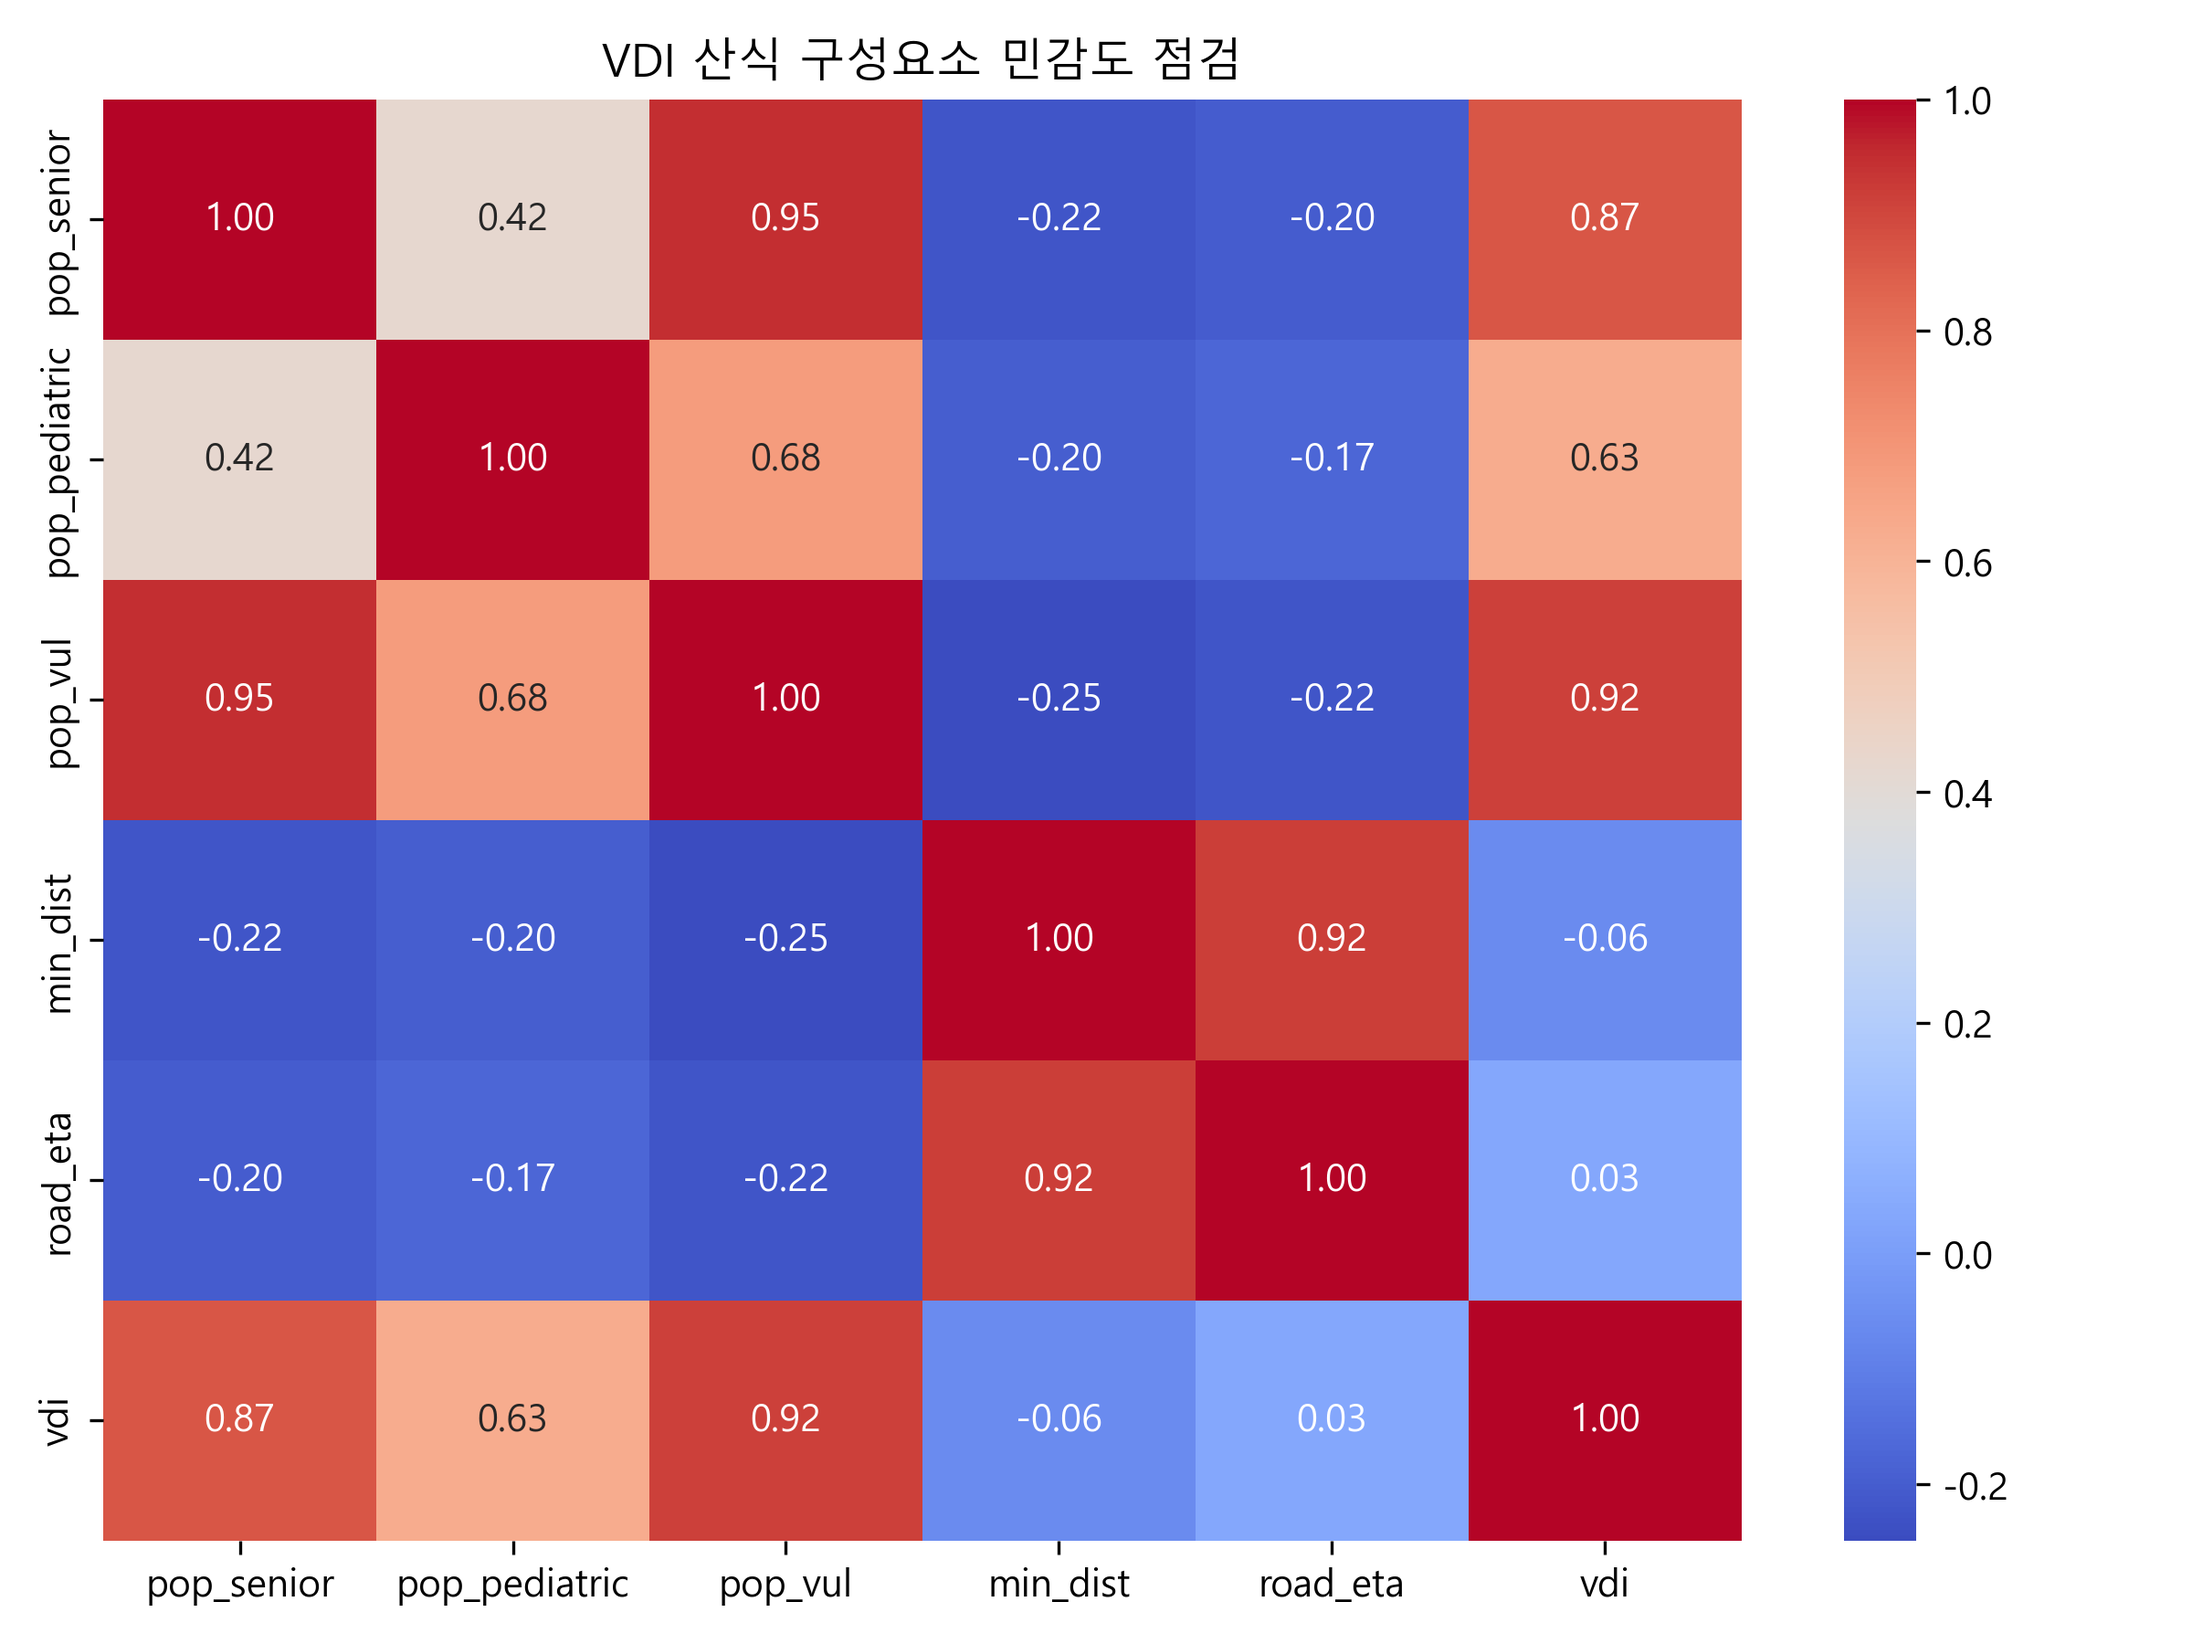
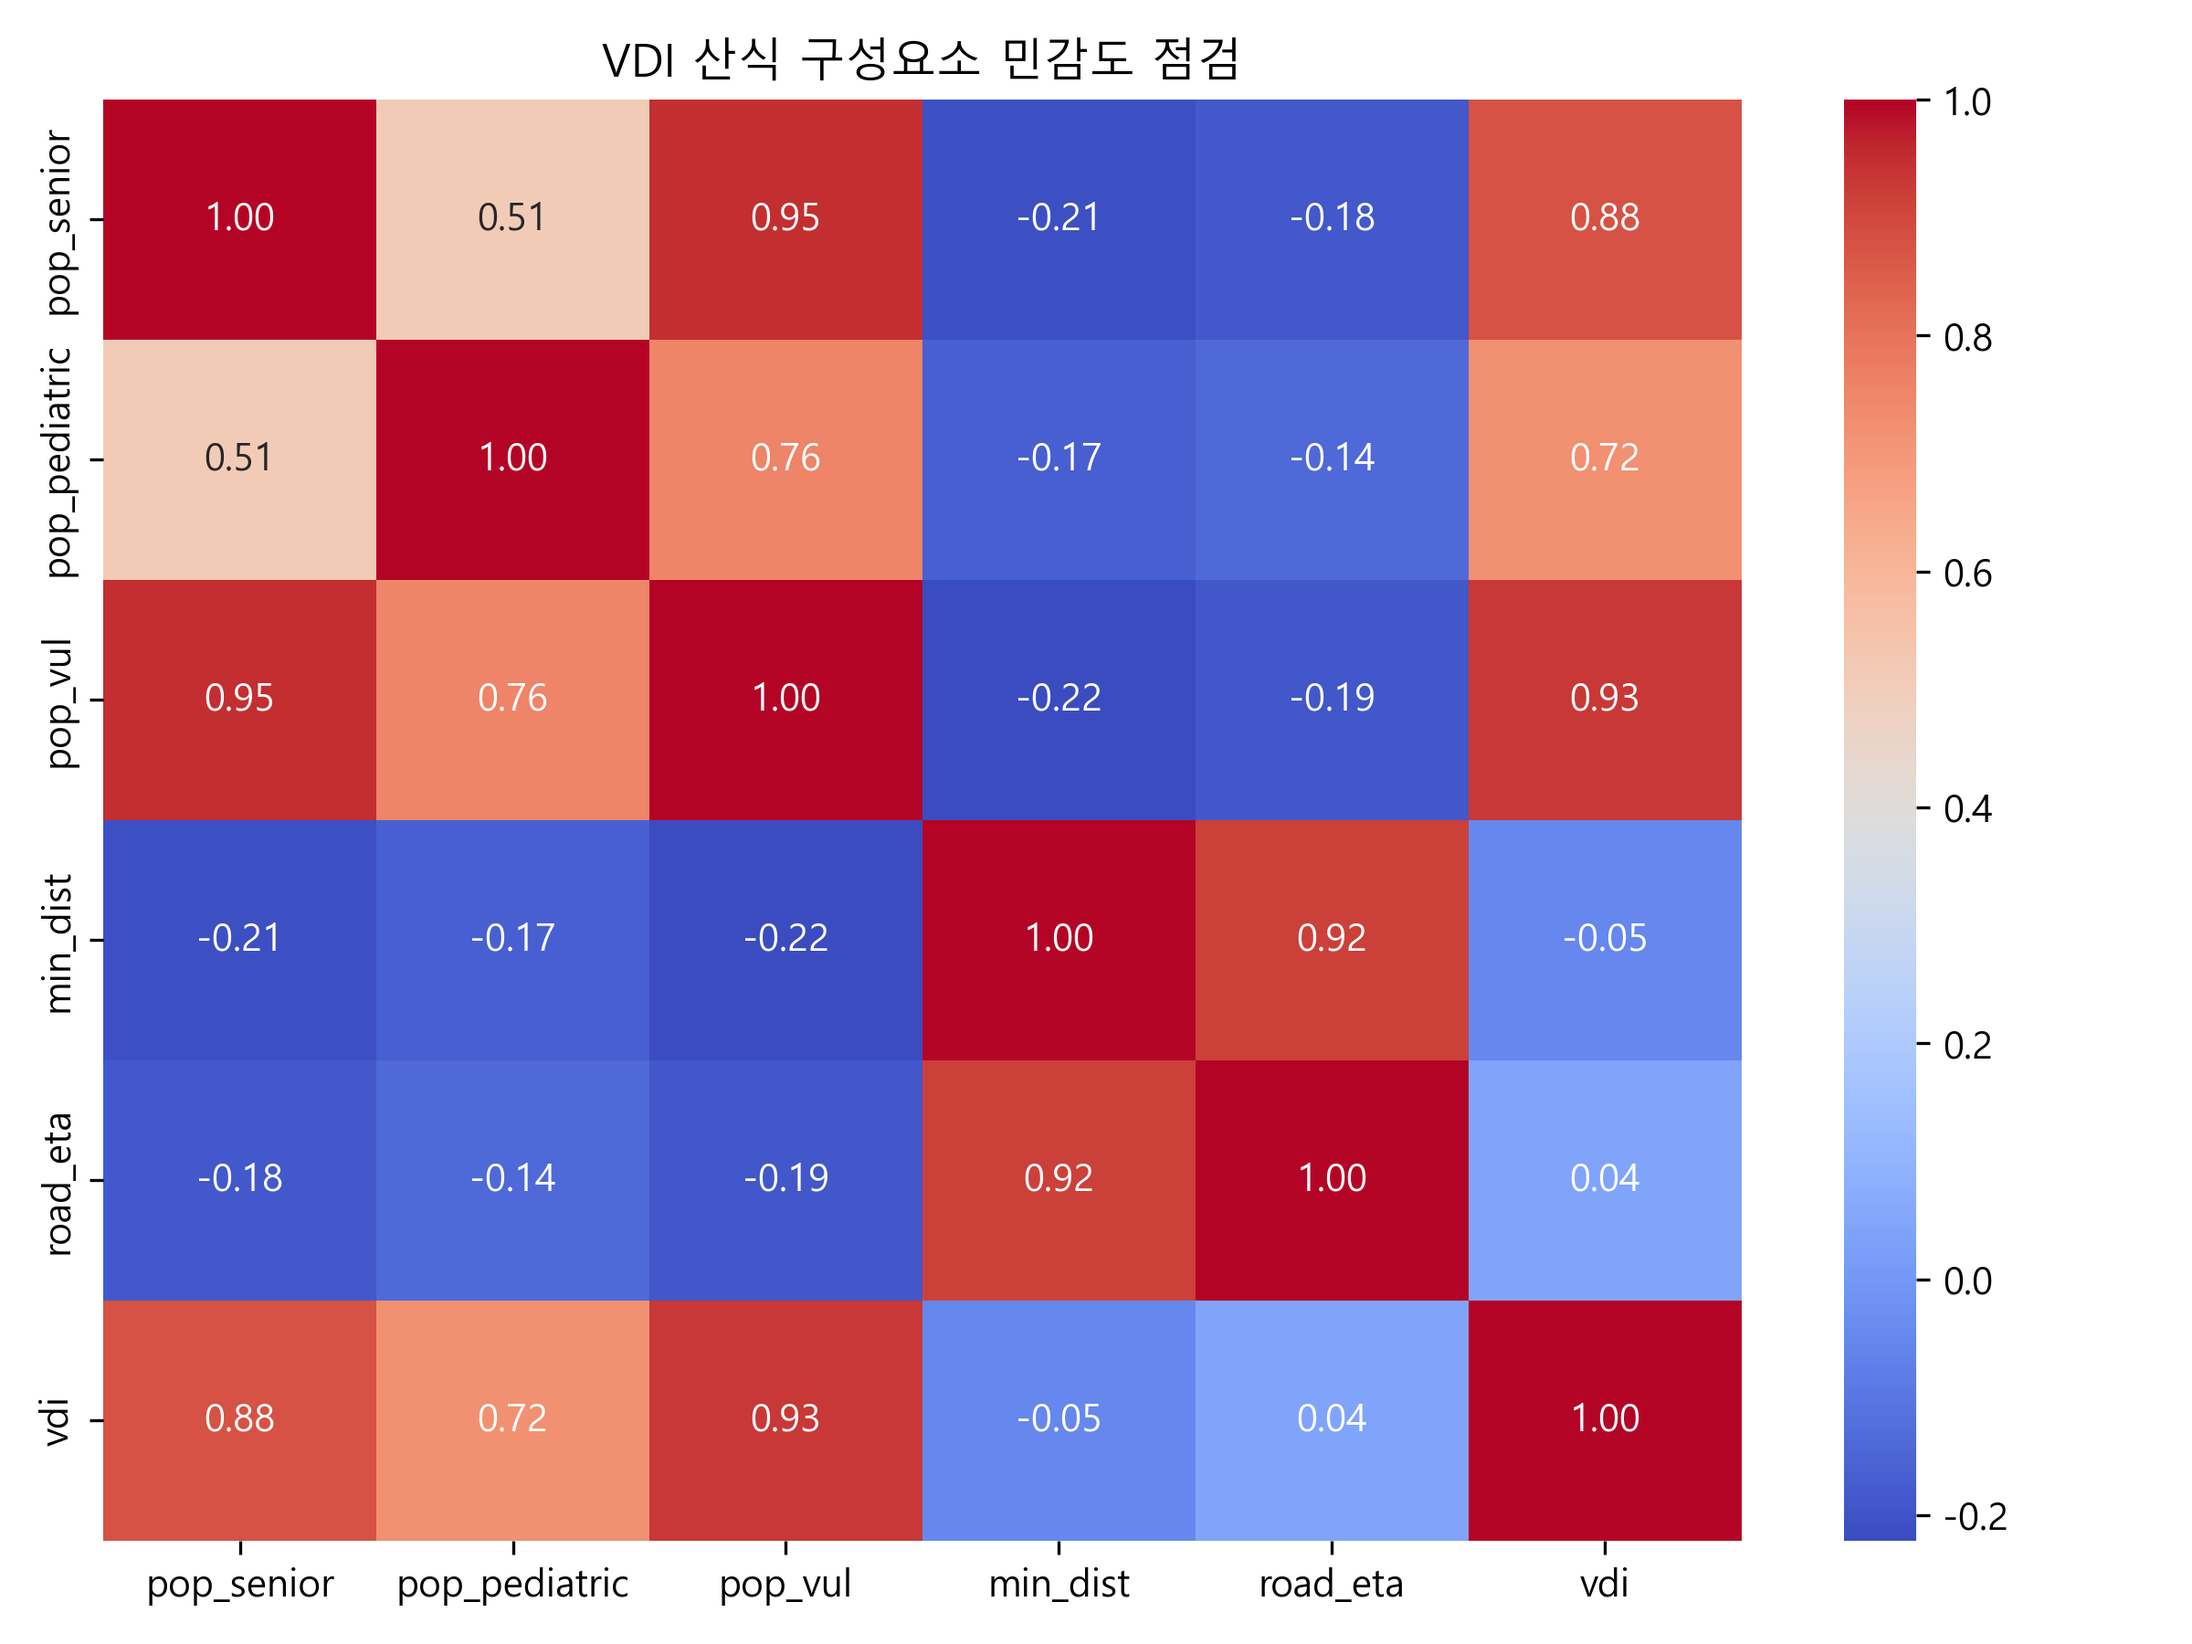
docs: 7월 EDA 산출물 갱신

diff --git a/docs/reports/EDA_REPORT.md b/docs/reports/EDA_REPORT.md
@@ -1,14 +1,14 @@
 # 대구 골든타임 정책분석 탐색적 데이터 분석(EDA)
 
-이 문서는 `2026-07-18-r2` 내부 분석 식별자에 해당하는 **2026.07.18 검증본**을 탐색적으로 점검합니다. EDA는 현재 데이터의 분포와 변수 관계를 설명하며 의료적 위험 임계값이나 시설 신설 효과를 확정하지 않습니다.
+이 문서는 `2026-07-r1` 내부 분석 식별자에 해당하는 **2026.07.18 검증본**을 탐색적으로 점검합니다. EDA는 현재 데이터의 분포와 변수 관계를 설명하며 의료적 위험 임계값이나 시설 신설 효과를 확정하지 않습니다.
 
 ## 1. 데이터 개요 및 기초 구조
 - **분석 대상 행정동 수**: 150개
 - **고려된 응급의료기관 수**: 25개
 - **정책 후보 수**: 9개
 - **검증된 도로 경로**: 5,100건 / 누락 0건
-- **인구 기준월**: 2026.06
-- **취약 인구 평균**: 4372.7명 / 행정동
+- **인구 기준월**: 2026.07
+- **취약 인구 평균**: 4457.9명 / 행정동
 
 분석본 생성 단계에서 행정동 150개, 기관 25개, 후보 9개와 경로 5,100개의 계약을 검사합니다. 병원·행정동·후보·후보 추적·최적화 자료의 SHA-256도 단일 릴리스 메타데이터와 대조합니다. 이 검사는 구조적 완전성과 파일 계보를 의미하며 원천자료의 임상적 타당성이나 최신성을 자동으로 보증하지는 않습니다.
 
@@ -29,8 +29,8 @@
 ![VDI 및 거리 분포](../images/eda/vdi_distance_dist.png)
 
 **해석(Insights)**:
-- 도로 ETA 기반 VDI는 749.83~38,827.48, 평균 10,155.58, 중앙값 9,438.26입니다.
-- 현재 분석본은 VDI 상위 25%를 우선 확인 대상으로 구분하며 상대 경계값은 13,261.43, 해당 행정동은 38개입니다.
+- 도로 ETA 기반 VDI는 749.83~54,858.43, 평균 10,386.40, 중앙값 9,478.42입니다.
+- 현재 분석본은 VDI 상위 25%를 우선 확인 대상으로 구분하며 상대 경계값은 13,429.72, 해당 행정동은 38개입니다.
 - 일반 차량 ETA는 0.73~64.58분입니다. 이는 수집 시점의 분석용 경로이며 119 구급차 이송시간이 아닙니다.
 
 ## 4. VDI 산식 구성요소와 민감도 점검
@@ -39,13 +39,13 @@
 ![VDI 산식 구성요소 민감도 히트맵](../images/eda/correlation_heatmap.png)
 
 **해석(Insights)**:
-- 현재 VDI와 취약인구의 피어슨 상관계수는 0.915, 도로 ETA와의 상관계수는 0.034입니다.
+- 현재 VDI와 취약인구의 피어슨 상관계수는 0.933, 도로 ETA와의 상관계수는 0.041입니다.
 - **통계적 의미**: 두 변수는 모두 VDI 산식의 구성요소이므로 이 상관은 독립적인 외부 타당성 검증이나 인과 효과가 아닙니다. 현재 150개 행정동의 값 범위와 `ln` 변환을 적용한 산식 안에서 취약인구가 ETA보다 결과에 더 강하게 결합돼 있음을 보여주는 구성요소 민감도 점검입니다.
 
 | 대안 산식 | 기준선과 Spearman 순위상관 | 상위 10개 겹침 | 중앙 순위 이동 | 최대 순위 이동 |
 |---|---:|---:|---:|---:|
-| `ln(1+ETA) × ln(1+취약인구)` | 0.518 | 2/10 | 19.0위 | 134위 |
-| 로그 구성요소 Min-Max 정규화 후 동일가중 합 | 0.935 | 7/10 | 7.0위 | 70위 |
+| `ln(1+ETA) × ln(1+취약인구)` | 0.535 | 3/10 | 19.5위 | 134위 |
+| 로그 구성요소 Min-Max 정규화 후 동일가중 합 | 0.895 | 6/10 | 9.0위 | 85위 |
 
 - **정책적 시사점**: 인구 로그 곱셈 대안은 상위 10개 중 2개만 유지되고 순위상관이 0.518이어서 현재 우선순위가 산식 선택에 민감합니다. 동일가중 정규화 대안은 상위 10개 중 7개를 유지하지만 최대 70위 이동이 남습니다. 따라서 현재 VDI는 확정 서열이 아니라 한 가지 내부 우선순위 기준으로만 사용하고, 가중 ETA·15분 커버율과 함께 판단해야 합니다.
 
@@ -62,7 +62,7 @@
 ![취약 지역 Top 10](../images/eda/top10_vulnerable_districts.png)
 
 **해석(Insights)**:
-- 현재 상위 3개는 달성군 화원읍, 달성군 다사읍, 달서구 진천동입니다.
+- 현재 상위 3개는 달성군 다사읍, 달성군 화원읍, 달서구 진천동입니다.
 - 상위 지역은 취약인구와 일반 차량 ETA가 결합된 결과입니다. 순위만으로 시설 신설·이동형 진료·예산 투입을 확정할 수 없습니다.
 
 ## 7. 기존 기관 포함 전체 체계의 접근성 전후 비교
@@ -71,9 +71,9 @@ p-median의 3개 후보 조합을 적용하되 기존 기관을 제거하지 않
 ![취약인구 가중 평균 ETA와 전체 체계 15분 커버율 전후 비교](../images/eda/policy_improvement.png)
 
 **해석(Insights)**:
-- 소아 후보 1, 3, 4 적용 시 취약인구 가중 평균 ETA는 15.932분에서 12.969분으로 줄고, 전체 체계의 15분 커버율은 42.94%에서 66.25%로 증가합니다.
-- 어르신 후보 1, 2, 3 적용 시 취약인구 가중 평균 ETA는 11.890분에서 11.155분으로 줄고, 전체 체계의 15분 커버율은 79.37%에서 84.24%로 증가합니다.
-- 전체 체계의 30분 커버율은 소아 97.86%→98.72%, 어르신 94.16%→95.30%입니다. 기준선부터 높아 주 KPI가 아니라 외곽권 누락 감시용 보조 지표로 둡니다.
+- 소아 후보 1, 3, 4 적용 시 취약인구 가중 평균 ETA는 16.237분에서 13.286분으로 줄고, 전체 체계의 15분 커버율은 41.44%에서 64.01%로 증가합니다.
+- 어르신 후보 1, 2, 3 적용 시 취약인구 가중 평균 ETA는 12.034분에서 11.269분으로 줄고, 전체 체계의 15분 커버율은 79.19%에서 84.00%로 증가합니다.
+- 전체 체계의 30분 커버율은 소아 97.93%→98.76%, 어르신 93.81%→94.93%입니다. 기준선부터 높아 주 KPI가 아니라 외곽권 누락 감시용 보조 지표로 둡니다.
 - 결과는 후보군 내부의 수학적 비교이며 대구 전역의 전역 최적해, 시설 건립 효과, 실제 환자 수용 성과를 의미하지 않습니다.
 
 ## 결론 및 후속 과제 (Next Steps)
